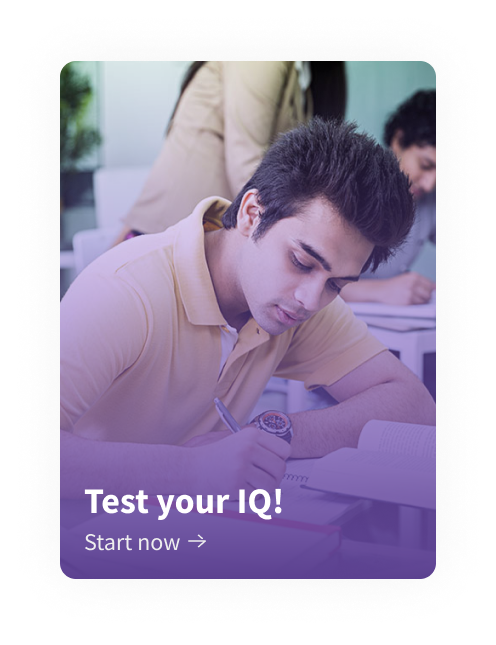
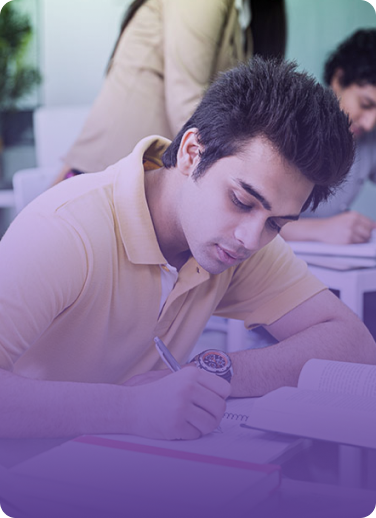
added cards section

diff --git a/index.html b/index.html
@@ -3,7 +3,7 @@
   <head>
     <meta charset="UTF-8" />
     <meta http-equiv="X-UA-Compatible" content="IE=edge" />
-    <meta name="viewport" content="width=device-width, initial-scale=1.0" />
+    <meta name="viewport" content="width=device-width, initial-scale=1" />
     <title>Quiz Kwik</title>
     <link rel="stylesheet" href="./css/style.css" />
     <link
@@ -134,19 +134,19 @@
         </section>
       </nav>
       <!-- hero section -->
-      <section class="px-4 max-w-4xl mx-auto">
+      <section class="max-w-4xl mx-auto md:pb-28">
         <section class="grid md:grid-cols-2 gap-8 pt-8">
           <!-- left part -->
-          <aside class="flex justify-end items-center">
+          <aside class="flex justify-start items-center">
             <div class="md: text-center md:text-left">
               <h2 class="topsectionleft text-6xl">
                 Daily Quiz, Daily Bonus- Play Today!
               </h2>
-              <p class="tet-lg py-2">
+              <p class="text-lg py-2">
                 QuizKwik is the daily Trivia and quiz playing platform. It
                 brings some exciting surprises every day.
               </p>
-              <div class="py-6">
+              <div>
                 <button
                   class="btn bg-yellow-300 hover:bg-yellow-600 text-black text-2xl font-normal"
                 >
@@ -162,7 +162,9 @@
             </div>
           </aside>
           <!-- right part -->
-          <aside class="topsectionright bg-no-repeat bg-contain bg-left-bottom bg-origin-content pr-4">
+          <aside
+            class="topsectionright bg-no-repeat bg-contain bg-left-bottom bg-origin-content pr-4"
+          >
             <img
               class="toprightimg mx-auto w-2/3"
               src="./assets/logo/badge.png"
@@ -170,46 +172,115 @@
             />
           </aside>
         </section>
-        <!-- four options -->
-        <section class="text-black bg-white rounded-2xl -mb-96">
-          <div class="text-center flex items-center justify-between p-4">
-            <div
-              class="flex flex-col items-center justify-center bg-gray-200 rounded-l-2xl h-40 w-40 p-4"
-            >
-              <p class="text-xl">Choose the option</p>
-              <p class="text-sm">Go to study in the year of your choice</p>
-            </div>
-            <div
-              class="flex flex-col items-center justify-center bordered border-2 border-yellow-300 h-40 w-40 p-4 rounded-2xl"
-            >
-              <img src="./assets/logo/icon/icon1.png" alt="" />
-              <p>Daily Trivia</p>
-              <button>
-                Start Now <i class="fa-solid fa-arrow-right-long"></i>
-              </button>
-            </div>
-            <div
-              class="flex flex-col items-center justify-center bordered border-2 border-yellow-300 h-40 w-40 p-4 rounded-2xl"
-            >
-              <img src="./assets/logo/icon/icon2.png" alt="" />
-              <p>Daily Play & Win</p>
-              <button>
-                Start Now <i class="fa-solid fa-arrow-right-long"></i>
-              </button>
-            </div>
-            <div
-              class="flex flex-col items-center justify-center bordered border-2 border-yellow-300 h-40 w-40 p-4 rounded-2xl"
-            >
-              <img src="./assets/logo/icon/icon3.png" alt="" />
-              <p>Play Like King</p>
-              <button>
-                Start Now <i class="fa-solid fa-arrow-right-long"></i>
-              </button>
-            </div>
-          </div>
-        </section>
       </section>
     </header>
+    <!-- four options -->
+    <section
+      class="text-black max-w-4xl mx-auto bg-white rounded-2xl shadow-xl mt-4 lg:-mt-28 mx-12"
+    >
+      <div
+        class="text-center flex flex-col md:flex-row items-center justify-between gap-4 p-4"
+      >
+        <div
+          class="flex flex-col w-full h-full items-center justify-center bg-gray-200 rounded-2xl p-9"
+        >
+          <h3 class="text-3xl text-blue-600 font-black">Choose the option</h3>
+          <p>Go to study in the year of your choice</p>
+        </div>
+        <div
+          class="flex flex-col items-center justify-center bordered border-2 border-yellow-300 h-full w-full p-4 rounded-2xl"
+        >
+          <img class="w-2/3" src="./assets/logo/icon/icon1.png" alt="" />
+          <p class="text-lg font-black">Daily Trivia</p>
+          <button class="text-blue-400">
+            Start Now <i class="fa-solid fa-arrow-right-long"></i>
+          </button>
+        </div>
+        <div
+          class="flex flex-col items-center justify-center bg-purple-400 text-white h-full w-full p-4 rounded-2xl"
+        >
+          <img class="w-2/3" src="./assets/logo/icon/icon2.png" alt="" />
+          <p class="text-lg font-black">Daily Play & Win</p>
+          <button>
+            Start Now <i class="fa-solid fa-arrow-right-long"></i>
+          </button>
+        </div>
+        <div
+          class="flex flex-col items-center justify-center bordered border-2 border-yellow-300 h-full w-full p-4 rounded-2xl"
+        >
+          <img class="w-2/3" src="./assets/logo/icon/icon3.png" alt="" />
+          <p class="text-lg font-black">Play Like King</p>
+          <button class="text-blue-400">
+            Start Now <i class="fa-solid fa-arrow-right-long"></i>
+          </button>
+        </div>
+      </div>
+    </section>
+    <!-- play and earn bonus -->
+    <section class="pb-8">
+      <div class="text-center py-6">
+        <h4 class="text-4xl font-black">Play, Learn and Earn bonus</h4>
+        <p class="text-xl">Check yourself, Earn yourself!</p>
+      </div>
+      <!-- 6 cards -->
+      <div
+        class="cards grid grid-cols-1 md:grid-cols-3 max-w-4xl mx-auto gap-4"
+      >
+        <div class="card1 h-96 w-72 rounded-2xl mx-auto">
+          <p>Text your IQ!</p>
+          <p>
+            <button>
+              Start Now <i class="fa-solid fa-arrow-right-long"></i>
+            </button>
+          </p>
+        </div>
+        <div class="card2 h-96 w-72 rounded-2xl mx-auto">
+          <p>Text your IQ!</p>
+          <p>
+            <button>
+              Start Now <i class="fa-solid fa-arrow-right-long"></i>
+            </button>
+          </p>
+        </div>
+        <div class="card3 h-96 w-72 rounded-2xl mx-auto">
+          <div class="p-6">
+            <p>Text your IQ!</p>
+            <p>
+              <button>
+                Start Now <i class="fa-solid fa-arrow-right-long"></i>
+              </button>
+            </p>
+          </div>
+        </div>
+        <div class="card1 h-96 w-72 rounded-2xl mx-auto">
+          <p>Text your IQ!</p>
+          <p>
+            <button>
+              Start Now <i class="fa-solid fa-arrow-right-long"></i>
+            </button>
+          </p>
+        </div>
+        <div class="card2 h-96 w-72 rounded-2xl mx-auto">
+          <p>Text your IQ!</p>
+          <p>
+            <button>
+              Start Now <i class="fa-solid fa-arrow-right-long"></i>
+            </button>
+          </p>
+        </div>
+        <div class="card3 h-96 w-72 rounded-2xl mx-auto">
+          <div class="p-6">
+            <p>Text your IQ!</p>
+            <p>
+              <button>
+                Start Now <i class="fa-solid fa-arrow-right-long"></i>
+              </button>
+            </p>
+          </div>
+        </div>
+      </div>
+      <p>lalaaaaaaaaaaaaaaaaaaalaaaaaaaaaaaaaaaa</p>
+    </section>
     <script src="./js/script.js"></script>
   </body>
 </html>

diff --git a/css/style.css b/css/style.css
@@ -17,7 +17,13 @@
   background-image: url("../assets/img/rightbg.png");
 }
 
-.topsectionleft {
-  -webkit-text-stroke: 2px white;
-  font-weight: 900;
+.card1 {
+  background-image: url("../assets/img/cards/card1.png");
 }
+.card2 {
+  background-image: url("../assets/img/cards/card2.png");
+}
+.card3 {
+  background-image: url("../assets/img/cards/card3.png");
+}
+
